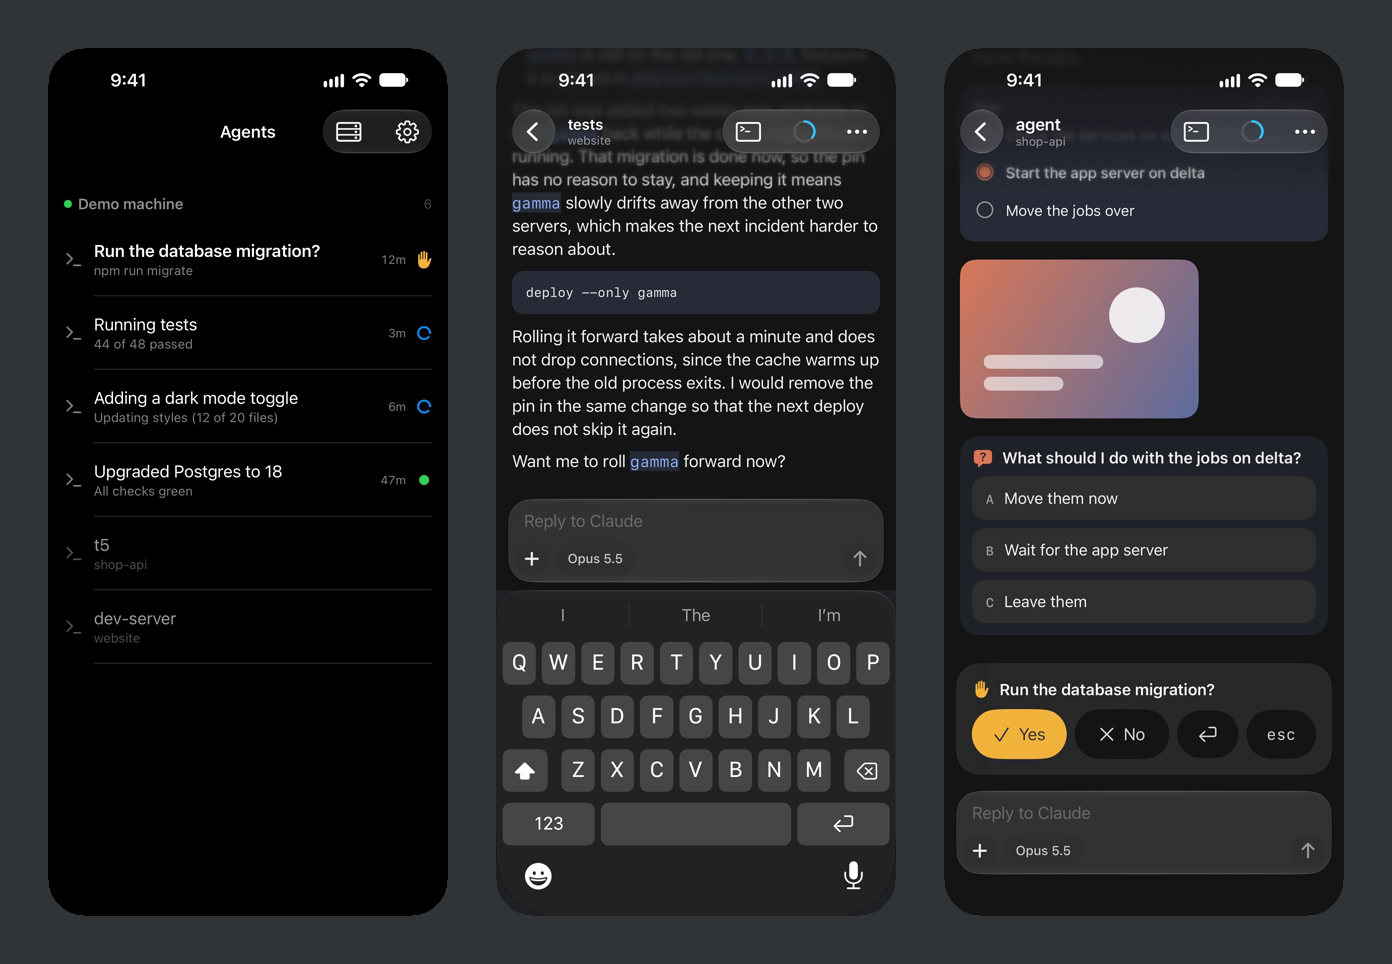
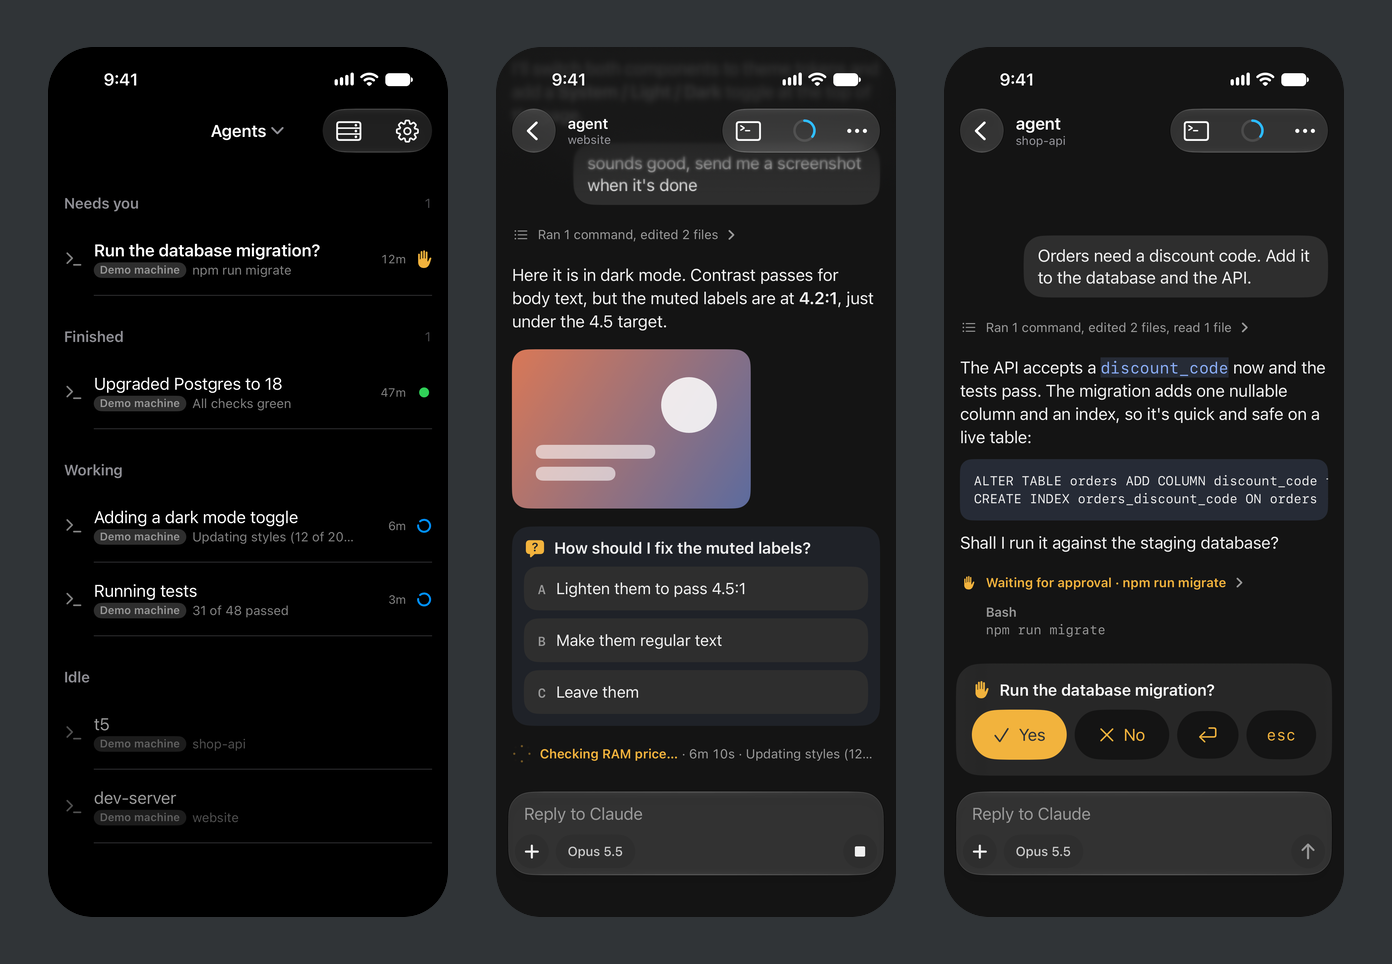
README: new screens; Copy Command, Restart into a newer Claude Code, live model lists, Try the Demo, bergr.dev; listing URLs on bergr.dev

diff --git a/README.md b/README.md
@@ -4,11 +4,11 @@
 
 <p align="center">
   Your coding agents, in your pocket.<br>
-  An iPhone client for <a href="https://github.com/herdrdev/herdr">herdr</a>: chat with them, answer them, and keep an eye on them from anywhere.
+  An iPhone, iPad and Mac client for <a href="https://github.com/herdrdev/herdr">herdr</a>: chat with them, answer them, and keep an eye on them from anywhere.
 </p>
 
 <p align="center">
-  <a href="#building">Build it yourself</a>
+  <a href="https://bergr.dev">bergr.dev</a> · <a href="#building">Build it yourself</a>
 </p>
 
 <p align="center">
@@ -24,8 +24,13 @@ get its conversation as a chat, with a real terminal underneath when you want it
   their logos and their sub-agents counted; machines linked to another machine's herdr-core show too
 - **A chat for each agent**: replies as they stream in, tool runs, plans, images and sub-agents;
   reply (or paste a screenshot), queue a reply while it works or send it now, slash commands and
-  skills from anywhere in a message, `!` shell commands, switch the model, effort and permission mode, and see how full
-  the context is and how much of your plan you've used
+  skills from anywhere in a message, `!` shell commands, switch the model, effort and permission
+  mode (from the agent's own model list, so new models show up by themselves), and see how full the
+  context is and how much of your plan you've used
+- **Copy what you need**: long-press a message to copy it, select part of it, or copy a command in
+  it
+- **Claude Code updates in place**: when a machine has a newer Claude Code than a conversation
+  runs, the chat offers to restart into it, keeping the conversation
 - **Answer in one tap**: an agent's question or approval becomes buttons, in the chat, on the Lock
   Screen and in the Dynamic Island; every answer stays in the conversation
 - **Stays with you in the background**: a Live Activity, a Home Screen widget, and optional push
@@ -40,6 +45,9 @@ On the iPad and the unfolded iPhone Duo, the agents sit next to the conversation
 conversation can open beside the first. It works on every iPhone and iPad with iOS 26 or later, and
 on Apple silicon Macs as an iPad app.
 
+No server yet? **Try the Demo** on the first screen opens a built-in machine with agents to chat
+with and answer, all simulated on the device.
+
 <p align="center">
   <picture>
     <source media="(prefers-color-scheme: dark)" srcset="assets/ipad-dark.png">
@@ -50,7 +58,7 @@ on Apple silicon Macs as an iPad app.
 <p align="center">
   <picture>
     <source media="(prefers-color-scheme: dark)" srcset="assets/screenshot-dark.png">
-    <img src="assets/screenshot-light.png" width="760" alt="Three Bergr screens: the Agents list with a migration waiting for an answer, an agent's conversation with its reply, and the blocked agent with Yes, No, Return and Esc buttons">
+    <img src="assets/screenshot-light.png" width="760" alt="Three Bergr screens: the Agents list sorted by what needs you, an agent's conversation asking how to fix low-contrast labels, and an agent asking to run a database migration with Yes, No, Return and Esc buttons">
   </picture>
 </p>
 
@@ -86,6 +94,8 @@ the relay in [`relay/`](relay) (a Cloudflare Worker) and Apple only pass an opaq
 
 Building it yourself, push alerts need your own relay and APNs key: deploy `relay/` as its
 README describes, and point the app at it with the `bergr.push.relay` user default.
+
+What the relay stores, and nothing else: [bergr.dev/privacy](https://bergr.dev/privacy.html).
 
 ## License
 

diff --git a/appstore/listing.md b/appstore/listing.md
@@ -78,8 +78,8 @@ The first release of Bergr.
 ## URLs
 
 - Support URL: https://github.com/MaroonBrian1928/bergr/issues
-- Marketing URL: https://<the bergr site>/
-- Privacy Policy URL: https://<the bergr site>/privacy.html (from the bergr-site repo; the same text as appstore/privacy-policy.md)
+- Marketing URL: https://bergr.dev/
+- Privacy Policy URL: https://bergr.dev/privacy.html
 
 ## Category
 
